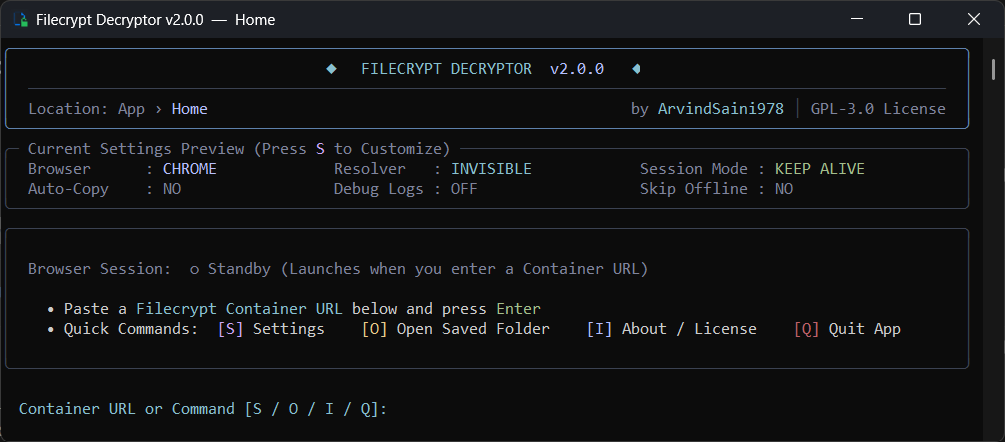
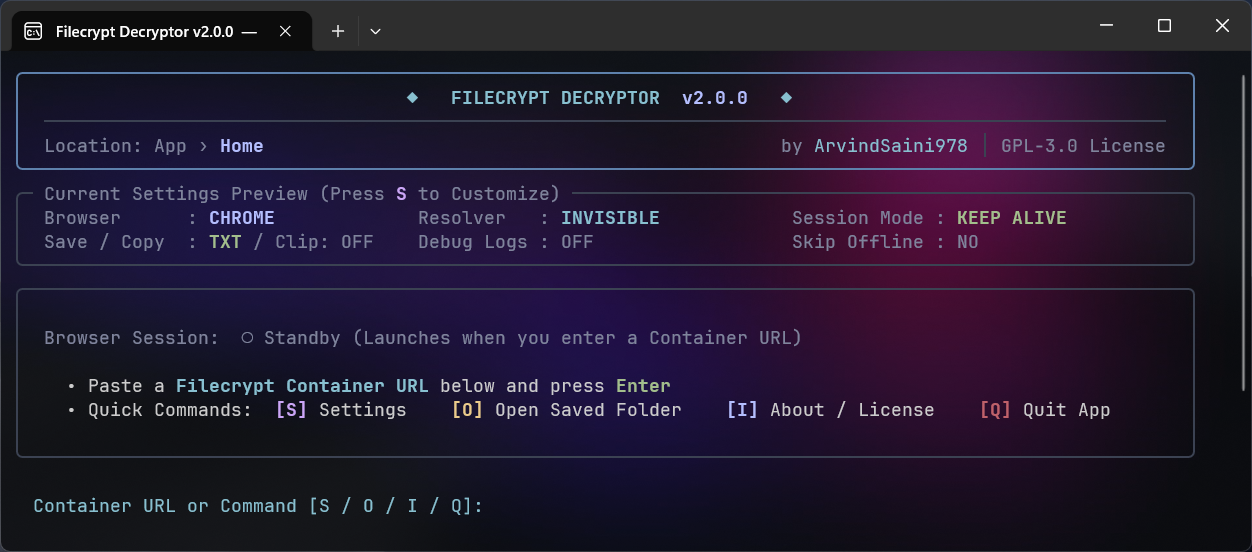
docs: update README.md and screenshots for v2.0.0 release
- Document [L] individual link selector, Save to .txt toggle, and %APPDATA%\FilecryptDecryptor storage
- Update Highlights & Architecture section to focus on the standalone ~11.5 MB native Go binary
- Add [L] shortcut to In-App Controls table and simplify x64 build instructions with -ldflags=\'-w\'
- Update application preview screenshots in assets/

diff --git a/README.md b/README.md
@@ -1,11 +1,11 @@
 <div align="center">
   <img src="assets/icon.png" alt="Filecrypt Decryptor Icon" width="110" />
   <h1>Filecrypt Decryptor v2.0.0</h1>
-  <p>A high-performance, zero-overhead link decrypter and resolver for Filecrypt containers with a modern TrueColor TUI, ad/popup blocking, session persistence, and multi-host batch extraction.</p>
+  <p>A high-performance, zero-overhead link decrypter and resolver for Filecrypt containers with a modern TrueColor TUI, ad/popup blocking, session persistence, selective link extraction, and multi-host batch decryption.</p>
   <p>
     <a href="https://github.com/ArvindSaini978/Filecrypt-Decryptor/releases/latest"><b>⬇ Download Standalone .EXE (v2.0.0)</b></a>
     &nbsp;•&nbsp;
-    <a href="https://github.com/ArvindSaini978/Filecrypt-Decryptor/blob/master/filecrypt_decryptor.go"><b>View Go Source</b></a>
+    <a href="https://github.com/ArvindSaini978/Filecrypt-Decryptor/blob/master/filecrypt_decryptor.go"><b>View Source Code</b></a>
     &nbsp;•&nbsp;
     <a href="https://github.com/ArvindSaini978/Filecrypt-Decryptor/blob/master/LICENSE"><b>GPL-3.0 License</b></a>
     &nbsp;•&nbsp;
@@ -19,20 +19,23 @@
   <img alt="preview_1" src="assets/preview_1.png" />
   <hr/>
   <img alt="preview_2" src="assets/preview_2.png" />
+  <hr/>
+  <img alt="preview_3" src="assets/preview_3.png" />
 </div>
 
 ---
 
-## ⚡ What's New in v2.0.0 (Go Native Engine Rewrite)
+## ⚡ Highlights & Architecture (Go Native Engine)
 
-- **🚀 ~82% Smaller Standalone Binary:** Reduced from ~57 MB down to **~10.5 MB** (pure native, uncompressed standalone binary).
-- **⚡ Instant Startup:** Launches in **0.02s** with **zero disk unpacking** to temporary folders (`%TEMP%`).
-- **🛡 Pure Standalone Architecture:** Talks directly to your installed browser (Google Chrome, Microsoft Edge, Brave, or Chromium) via native Chrome DevTools Protocol (CDP) — no external Python runtime or Node.js drivers required.
-- **🔄 Connection-Pooled HTTP Resolver:** Reuses open sockets for in-memory link extraction, achieving ~30–50ms decryption speeds per link.
+- **🚀 Pure Standalone Native Binary (~11.5 MB):** Compiled to a single, self-contained native Windows executable (uncompressed, zero UPX packing) that launches in **0.02s** with zero temporary folder (`%TEMP%`) unpacking.
+- **🛡 Zero External Runtime Dependencies:** Talks directly to your installed browser (Google Chrome, Microsoft Edge, Brave, or Chromium) via native Chrome DevTools Protocol (CDP) — no external Python runtime or Node.js drivers required.
+- **🎯 Selective Individual Link Decryption (`[L]`):** Browse all container links in a paginated view (25 links/page) and extract specific files or ranges (e.g., `1`, `1, 3, 5`, `2-6`, or `A`) with episode-aware filename display (`S01E04`, `Part.2`) and session-level link caching.
+- **💾 Flexible Output Modes (`.txt` File & Clipboard):** Save decrypted links as clean `.txt` files per host, or disable disk saving (`Save URLs to .txt File: NO`) for a pure console + clipboard workflow.
+- **🔄 Connection-Pooled In-Memory Resolver:** Reuses open sockets for in-memory `/Link/` ➔ `/Go/` redirect extraction, achieving ~30–50ms decryption speeds per link.
 - **⏹ Instant Operation Cancellation (`[Esc]` / `[X]`):** Abort container loading, Captcha waiting, or link decryption at any time and return immediately without restarting the app.
-- **🎨 Pixel-Accurate TrueColor TUI:** 24-bit TrueColor Nord / Catppuccin Mocha theme with complete box-drawing, multi-line word-wrapping, and interactive Settings.
+- **📁 Clean `%APPDATA%` Storage:** Stores `config.ini` and `browser_profile` cleanly inside `%APPDATA%\FilecryptDecryptor` so running the `.exe` from your Desktop or Downloads never litters profile folders next to the binary.
 
-> *Note: The legacy Python implementation has been permanently preserved in the [`legacy-python`](https://github.com/ArvindSaini978/Filecrypt-Decryptor/tree/legacy-python) branch.*
+> *Note: The original Python implementation is archived in the [`legacy-python`](https://github.com/ArvindSaini978/Filecrypt-Decryptor/tree/legacy-python) branch.*
 
 ---
 
@@ -41,9 +44,9 @@
 - **⚡ Zero-Flash In-Memory Link Resolver:** Follows Filecrypt `/Link/` ➔ `/Go/` redirect chains directly in memory with **zero screen flashing**, with an automatic single-tab dark fallback for client-side hash hosts like `mega.nz`.
 - **🛡 Multi-Layer Ad & Popup Blocker:** Automatically strips Filecrypt/CutCaptcha ad overlays, shadow-DOM click-jackers, and hijacked popup tabs at the protocol layer.
 - **🔑 Captcha Session Persistence (`KEEP ALIVE`):** Keeps the browser session alive across multiple containers (`[N]`) so solved Captchas (`PHPSESSID`) stay remembered while the browser remains open.
-- **📊 Smart Host Selection & Availability Detection:** Groups container links by host provider (`mega.nz`, `pixeldrain.com`, `1fichier.com`, etc.), detects online/offline status, heals false-offline status glitches, and saves clean `.txt` link files.
-- **📋 Persistent Link Viewer & Quick Copy:** Displays extracted links right inside the terminal after decryption with one-key `[C]` clipboard copy.
-- **⚙ Interactive Settings & Self-Healing Config:** Customize browser, resolve mode, and auto-copy directly inside the app with an automatic `config.ini` validator.
+- **📊 Smart Host Selection & Availability Detection:** Groups container links by host provider (`mega.nz`, `pixeldrain.com`, `1fichier.com`, etc.), detects online/offline status, heals false-offline status glitches, and tracks `Partial (x/y)` vs `Decrypted (y/y)` progress.
+- **📋 Persistent Link Viewer & Quick Copy:** Displays extracted links right inside the terminal after decryption with one-key `[C]` clipboard copy and optional automatic clipboard copying.
+- **⚙ Interactive Settings & Self-Healing Config:** Customize your browser, resolve mode, `.txt` file saving, auto-copy, session persistence, and output folder directly inside the app with an automatic `config.ini` validator.
 
 ---
 
@@ -55,7 +58,7 @@
 3. Paste any Filecrypt Container URL and press **Enter**!
 > **Note:** Works out-of-the-box with **Google Chrome**, **Microsoft Edge**, **Brave Browser**, or **Chromium** installed on your PC. Press **`[S]` (Settings)** inside the app to switch browsers anytime.
 
-### Option 2: Run from Go Source Code
+### Option 2: Run from Source Code
 ```powershell
 git clone https://github.com/ArvindSaini978/Filecrypt-Decryptor.git
 cd Filecrypt-Decryptor
@@ -68,12 +71,13 @@ go run filecrypt_decryptor.go
 
 | Key | Action | Description |
 | :---: | :--- | :--- |
-| **`[1-9]`** | **Decrypt Selected Host** | Extracts and saves all download links for a specific host provider |
+| **`[1-9]`** | **Decrypt Selected Host** | Extracts download links for a specific host provider |
 | **`[A]`** | **Decrypt All Hosts** | Batch-extracts links across every available host in the container |
+| **`[L]`** | **Select Specific Links** | Browse all files (paginated) and decrypt specific links or ranges (e.g., `1, 3, 4-6`) |
 | **`[C]`** | **Copy Shown URLs** | Copies the most recently decrypted URLs directly to Windows Clipboard |
 | **`[N]`** | **New Container URL** | Loads another Filecrypt container while keeping your solved Captcha session alive |
 | **`[O]`** | **Open Output Folder** | Opens `./decrypted_links` in Windows Explorer to view saved `.txt` files |
-| **`[S]`** | **Application Settings** | Customize Browser, Resolve Mode, Auto-Copy, Session Persistence, and Debug Mode |
+| **`[S]`** | **Application Settings** | Customize Browser, Resolve Mode, Save to `.txt`, Auto-Copy, Session Mode, and Debug Logs |
 | **`[I]`** | **About & License** | View author info, GitHub repository link, and GPL-3.0 license details |
 | **`[Esc]` / `[X]`** | **Cancel Operation** | Cancels container loading, Captcha waiting, or active decryption at any time |
 | **`[Q]`** | **Quit Application** | Cleanly closes the browser session and exits |
@@ -96,10 +100,13 @@ go install github.com/tc-hib/go-winres@latest
 ```
 > **Architecture Note:** Use `--arch amd64` for standard 64-bit Windows (Intel/AMD), `--arch arm64` for Windows on ARM, `--arch 386` for 32-bit Windows, or `--arch amd64,386,arm64` to generate `.syso` resources for all architectures.
 
-**3. Compile Optimized Standalone Executable:**
+**3. Compile Standalone Executable:**
 ```powershell
 $env:CGO_ENABLED = "0"
-go build -trimpath -ldflags="-s -w" -o dist\FilecryptDecryptor-v2.0.0-x64.exe
+$env:GOOS = "windows"
+$env:GOARCH = "amd64"
+go build -trimpath -ldflags="-w" -o dist\FilecryptDecryptor-v2.0.0-x64.exe
+Remove-Item -Force rsrc_windows_*.syso -ErrorAction SilentlyContinue
 ```
 
 ---
